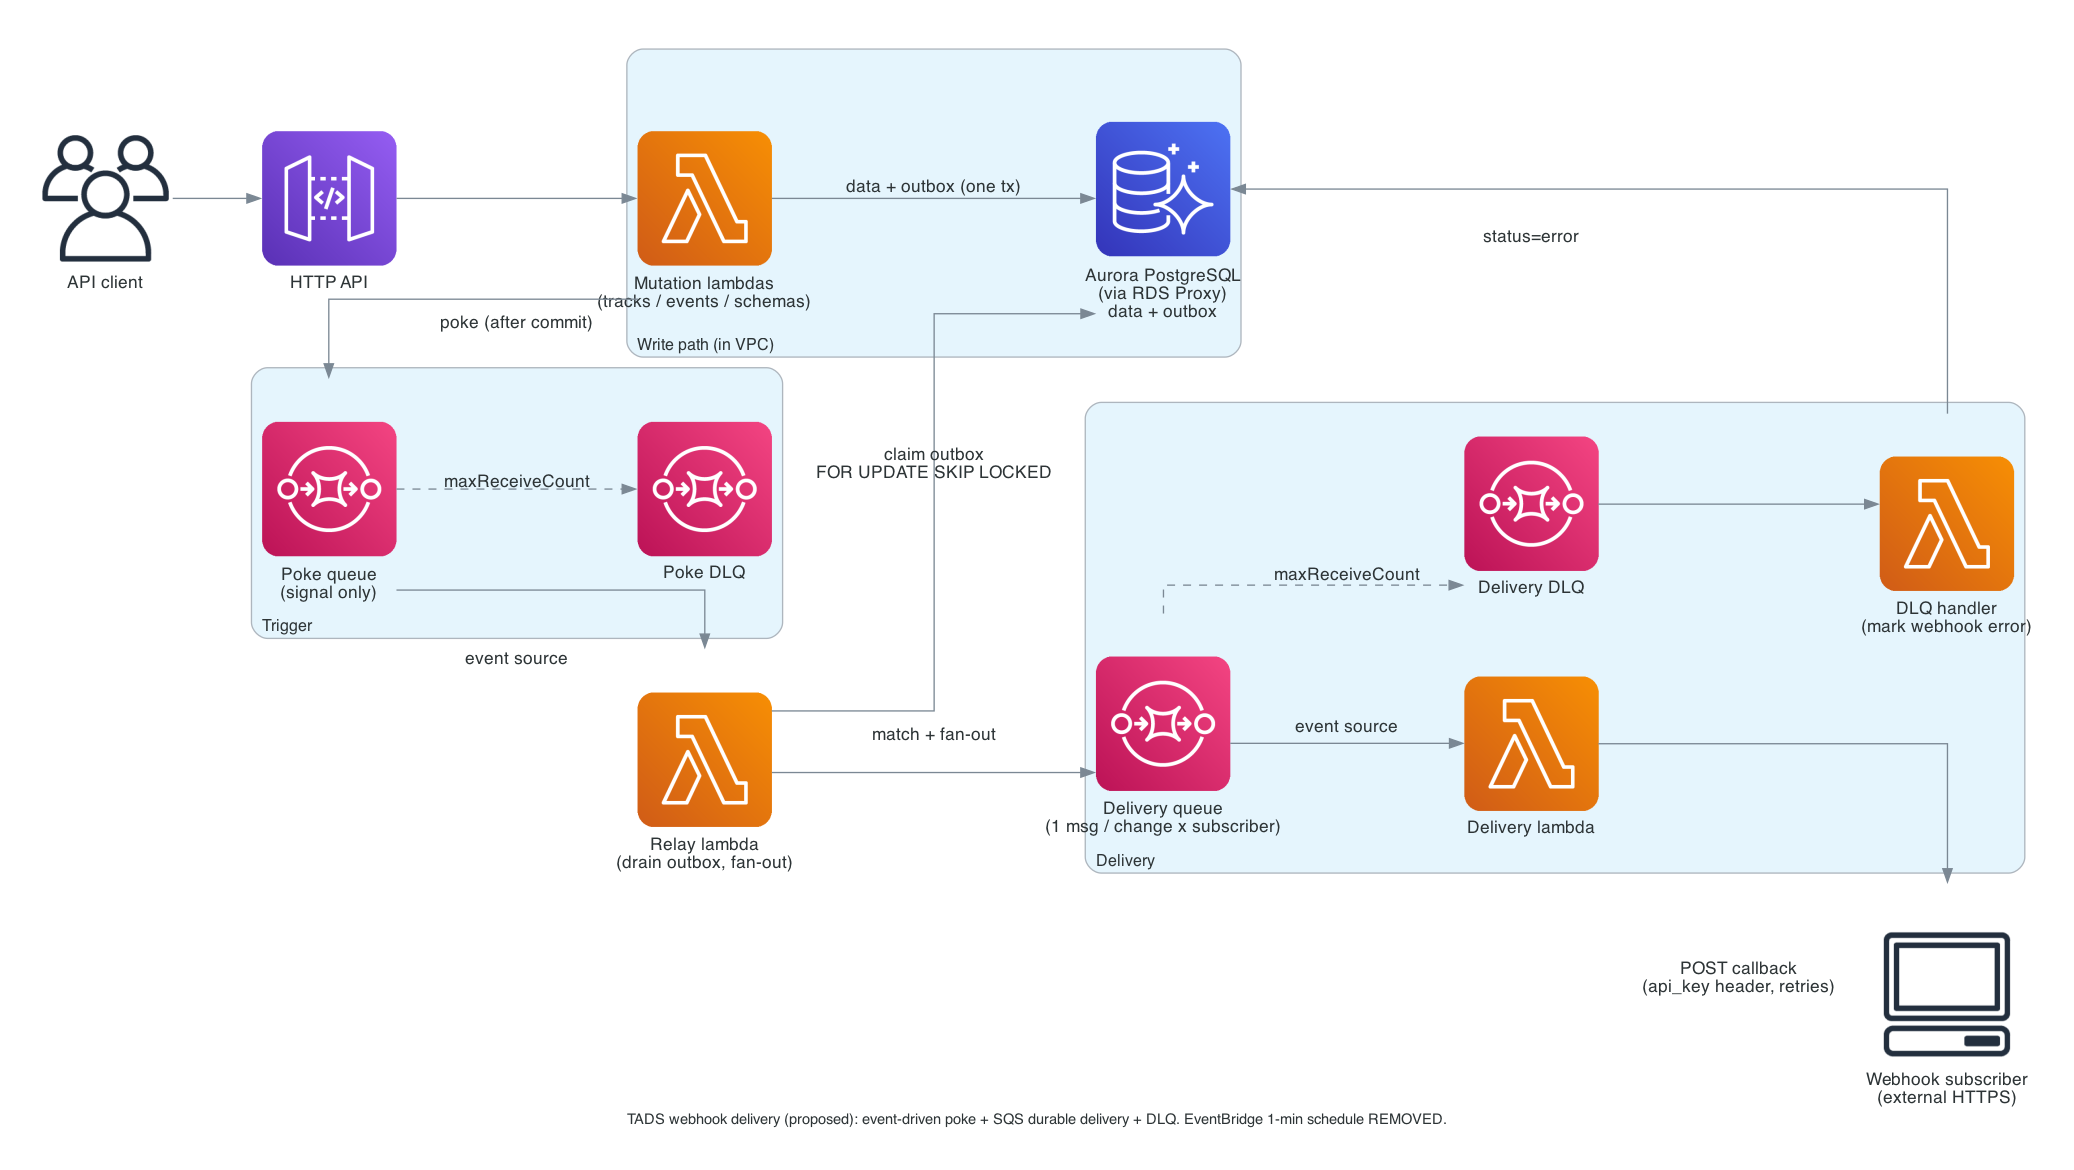
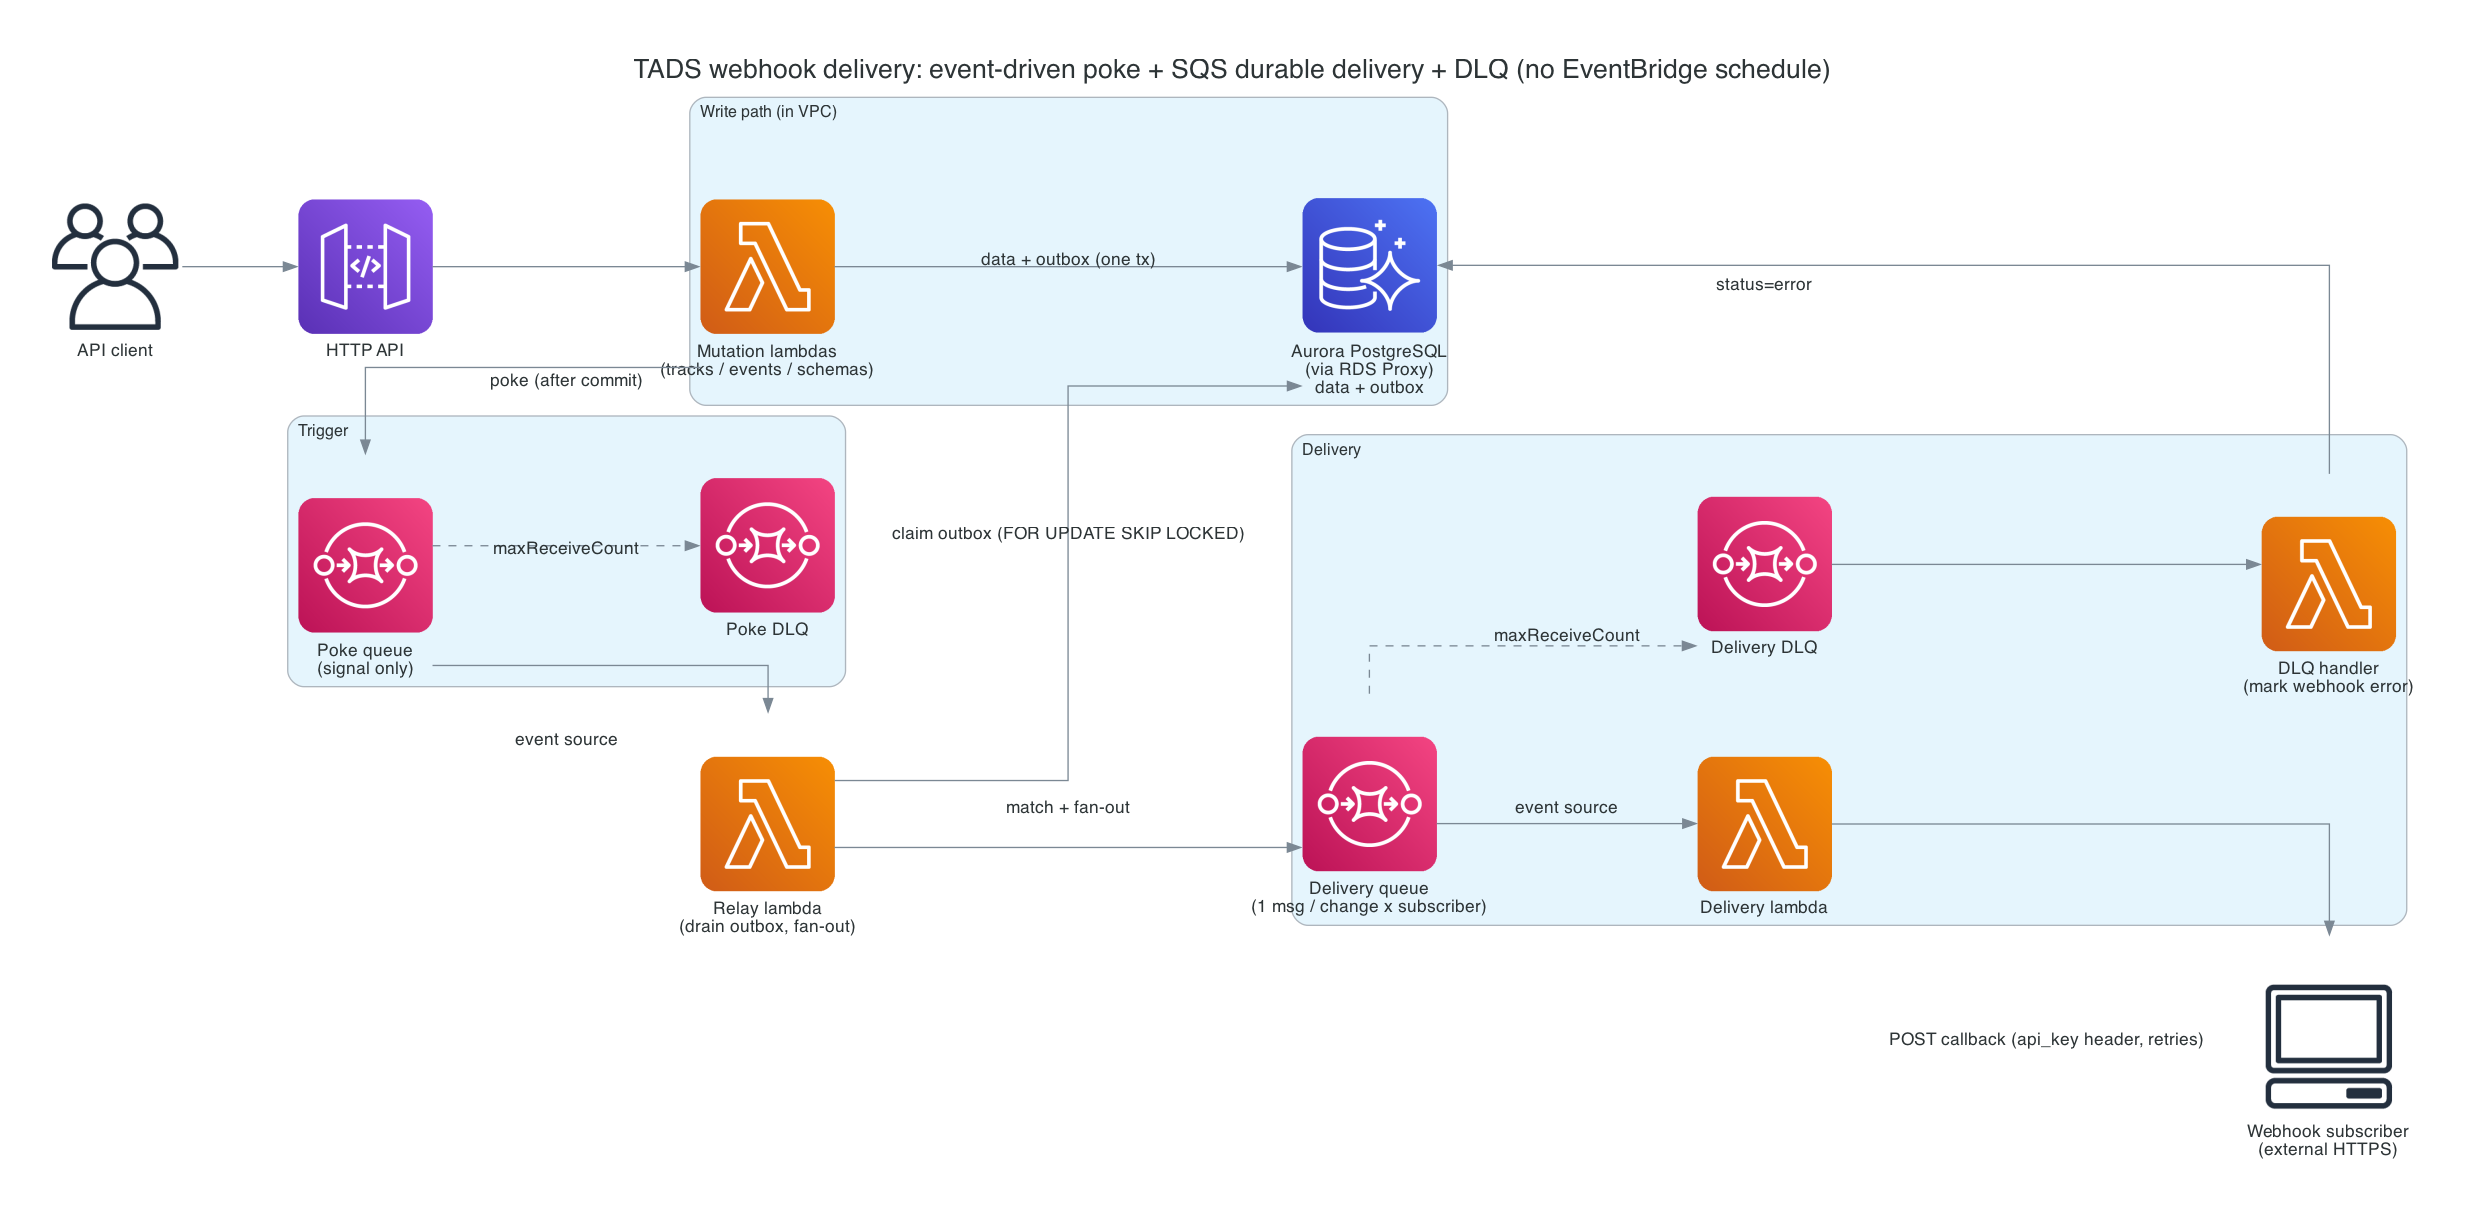
docs: regenerate webhook-delivery diagram from committed source
Add a diagrams (mingrammer) Python source for the architecture image and
re-render it, replacing the previously source-less PNG. Drops the stale
"proposed" / "EventBridge schedule REMOVED" caption — the design is implemented
— and makes the diagram regenerable:

    uv run --no-project --with diagrams python docs/webhook-delivery-architecture.py

diff --git a/docs/webhook-delivery-architecture.py b/docs/webhook-delivery-architecture.py
@@ -1,0 +1,64 @@
+"""Source for docs/webhook-delivery-architecture.png — the TADS webhook delivery pipeline.
+
+Regenerate after editing:
+
+    uv run --no-project --with diagrams python docs/webhook-delivery-architecture.py
+
+Requires graphviz (`dot`) on PATH. Output is written next to this file.
+"""
+
+from diagrams import Cluster, Diagram, Edge
+from diagrams.aws.compute import Lambda
+from diagrams.aws.database import Aurora
+from diagrams.aws.integration import SQS
+from diagrams.aws.network import APIGateway
+from diagrams.onprem.client import Client, Users
+
+TITLE = (
+    "TADS webhook delivery: event-driven poke + SQS durable delivery + DLQ "
+    "(no EventBridge schedule)"
+)
+
+graph_attr = {"fontsize": "20", "labelloc": "t", "pad": "0.5", "nodesep": "0.8", "ranksep": "1.2"}
+
+with Diagram(
+    TITLE,
+    filename="docs/webhook-delivery-architecture",
+    outformat="png",
+    show=False,
+    direction="LR",
+    graph_attr=graph_attr,
+):
+    client = Users("API client")
+    api = APIGateway("HTTP API")
+
+    with Cluster("Write path (in VPC)"):
+        mutation = Lambda("Mutation lambdas\n(tracks / events / schemas)")
+        aurora = Aurora("Aurora PostgreSQL\n(via RDS Proxy)\ndata + outbox")
+
+    with Cluster("Trigger"):
+        poke = SQS("Poke queue\n(signal only)")
+        poke_dlq = SQS("Poke DLQ")
+
+    relay = Lambda("Relay lambda\n(drain outbox, fan-out)")
+
+    with Cluster("Delivery"):
+        delivery_q = SQS("Delivery queue\n(1 msg / change x subscriber)")
+        delivery = Lambda("Delivery lambda")
+        delivery_dlq = SQS("Delivery DLQ")
+        dlq_handler = Lambda("DLQ handler\n(mark webhook error)")
+
+    subscriber = Client("Webhook subscriber\n(external HTTPS)")
+
+    client >> api >> mutation
+    mutation >> Edge(label="data + outbox (one tx)") >> aurora
+    mutation >> Edge(label="poke (after commit)") >> poke
+    poke >> Edge(label="maxReceiveCount", style="dashed") >> poke_dlq
+    poke >> Edge(label="event source") >> relay
+    relay >> Edge(label="claim outbox (FOR UPDATE SKIP LOCKED)") >> aurora
+    relay >> Edge(label="match + fan-out") >> delivery_q
+    delivery_q >> Edge(label="event source") >> delivery
+    delivery_q >> Edge(label="maxReceiveCount", style="dashed") >> delivery_dlq
+    delivery_dlq >> dlq_handler
+    dlq_handler >> Edge(label="status=error") >> aurora
+    delivery >> Edge(label="POST callback (api_key header, retries)") >> subscriber
